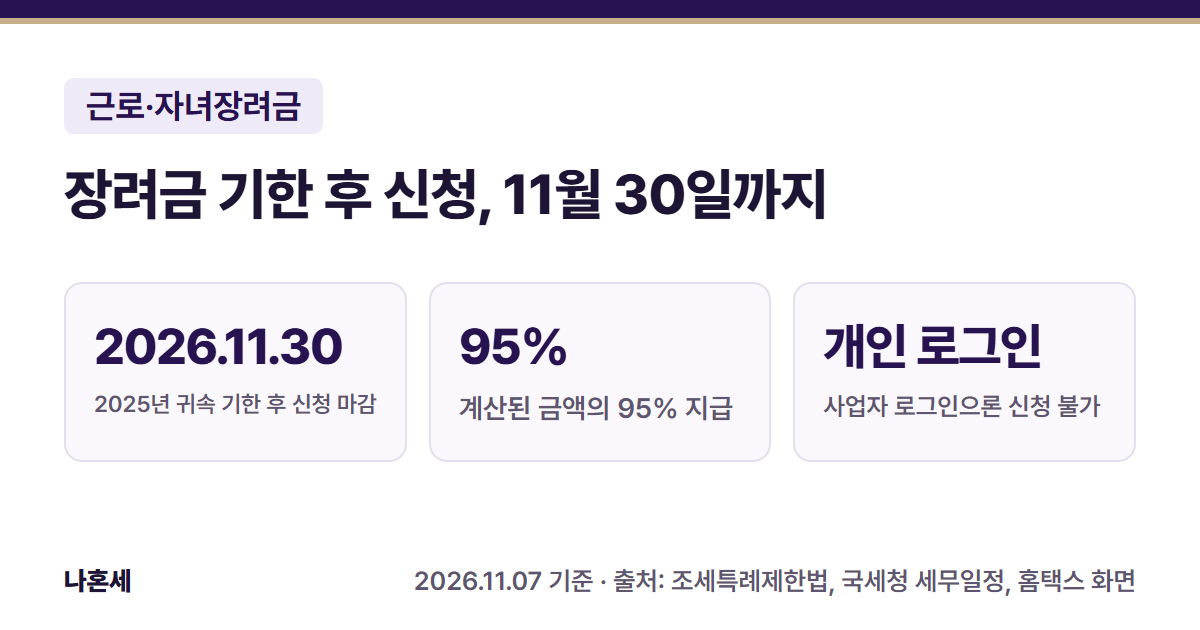
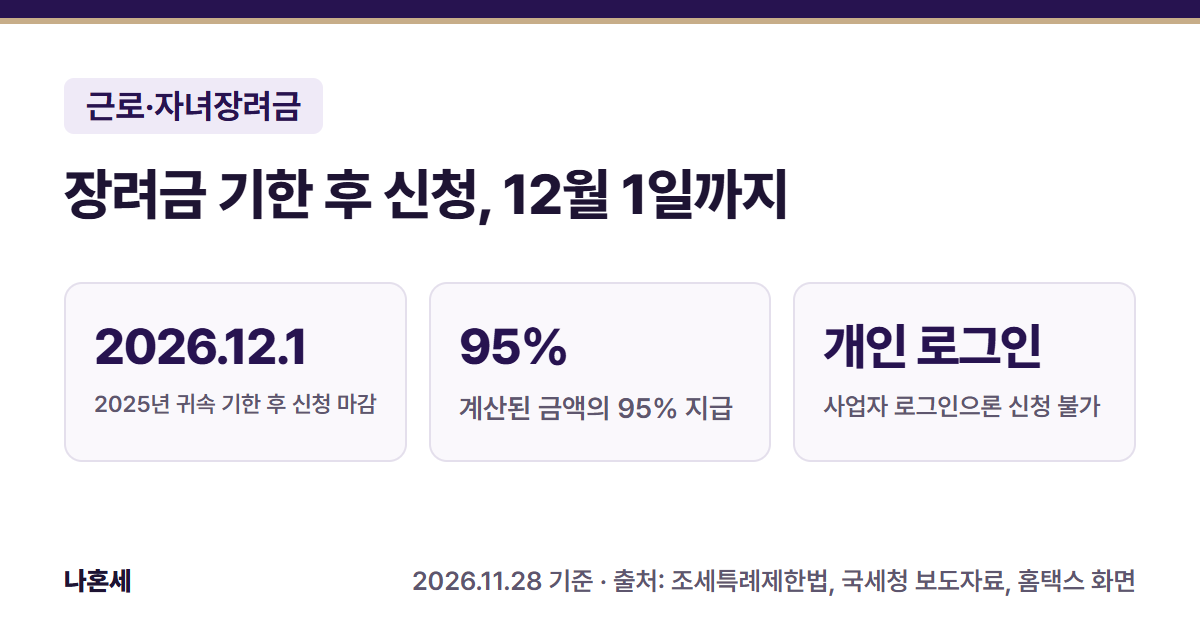
장려금 기한 후 신청 마감을 국세청 안내대로 12월 1일로 고침, 네이버 국세청 소식 원고 추가

diff --git a/_tools/card.html b/_tools/card.html
@@ -125,7 +125,8 @@ const cards = {
     stats: [["2027.1.25", "2026년 2기 확정·간이 신고 마감"], ["신용카드 ÷ 1.1", "카드 매출은 부가세 포함 금액"], ["예정고지 빼기", "계산 결과에서 직접 차감"]],
     foot: "2026.11.07 기준 · 출처: 부가가치세법, 국세청 세무일정, 홈택스 화면"
   },
-  "hometax-incentive-late-application": { label: "근로·자녀장려금", title: "장려금 기한 후 신청, 11월 30일까지", stats: [["2026.11.30", "2025년 귀속 기한 후 신청 마감"], ["95%", "계산된 금액의 95% 지급"], ["개인 로그인", "사업자 로그인으론 신청 불가"]], foot: "2026.11.07 기준 · 출처: 조세특례제한법, 국세청 세무일정, 홈택스 화면" },
+  "hometax-incentive-late-application": { label: "근로·자녀장려금", title: "장려금 기한 후 신청, 12월 1일까지", stats: [["2026.12.1", "2025년 귀속 기한 후 신청 마감"], ["95%", "계산된 금액의 95% 지급"], ["개인 로그인", "사업자 로그인으론 신청 불가"]], foot: "2026.11.28 기준 · 출처: 조세특례제한법, 국세청 보도자료, 홈택스 화면" },
+  "news-20261129-incentive": { label: "국세청 보도자료 정리", title: "놓친 장려금, 12월 1일까지 기한 후 신청", stats: [["12.1.(화)", "2025년 귀속 기한 후 신청 마감"], ["95%", "기한 후 신청은 산정액의 95%"], ["2027.1.15.", "지급 예정일"]], foot: "2026.11.28 기준 · 출처: 국세청 보도참고자료(2026.11.2.)" },
   "hometax-cash-receipt-issue": { label: "현금영수증", title: "홈택스 현금영수증 발급하기", stats: [["10만원 이상", "의무발행업종은 요청 없어도 발급"], ["5일 이내", "무기명 발급(010-000-1234)"], ["20%", "의무발행 미발급 가산세"]], foot: "2026.11.07 기준 · 출처: 소득세법·시행령, 홈택스 화면" },
   "hometax-tax-invoice-correction": { label: "세금계산서", title: "수정세금계산서, 사유부터 고르기", stats: [["6가지", "홈택스 수정발급 사유"], ["2장", "착오 정정은 취소분+수정분"], ["재발송", "이메일만 틀리면 수정 대상 아님"]], foot: "2026.11.07 기준 · 출처: 부가가치세법 시행령, 홈택스 화면" },
 "hometax-year-end-preview": { label: "연말정산", title: "연말정산 미리보기, 회사 정산 전에", stats: [["06~24시", "이용 시간(화면 안내)"], ["25% 초과", "총급여 대비 카드 사용액"], ["5월 합산", "N잡이면 사업소득과 함께 신고"]], foot: "2026.11.08 기준 · 출처: 조세특례제한법, 소득세법, 홈택스 화면" },
